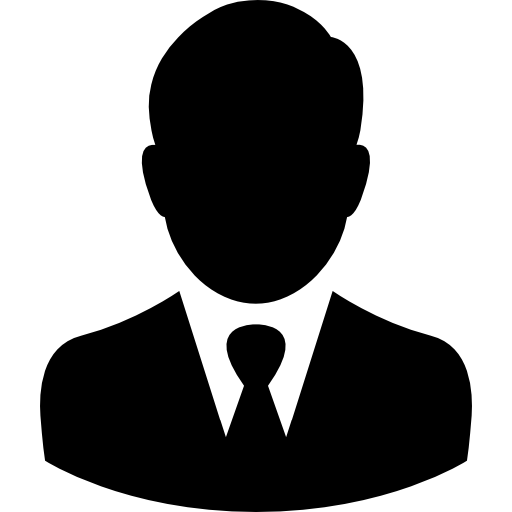
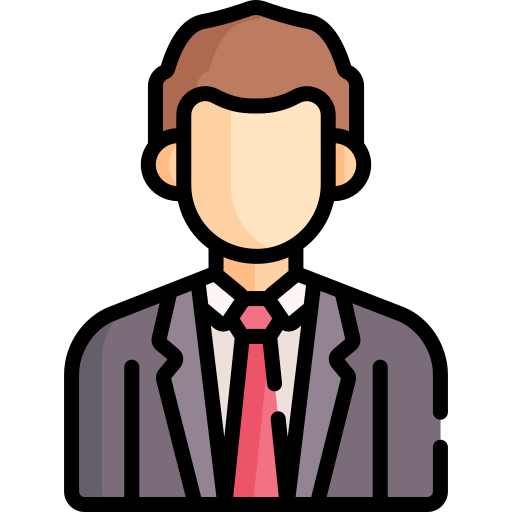
Update character images

diff --git a/components/first-level/training/FirstLevelTraining1.tsx b/components/first-level/training/FirstLevelTraining1.tsx
@@ -43,8 +43,8 @@ const FirstLevelTraining1 = ({
     <View style={styles.container}>
       <View style={styles.characterWrapper}>
         <Character
-          image={require("../../../assets/sergeant.png")}
-          name="Sergeant Mehmet"
+          image={require("../../../assets/trainer.png")}
+          name="Trainer"
           onPress={handleCharacterClick}
         />
         {showExclamation && (

diff --git a/components/first-level/training/FirstLevelTraining3.tsx b/components/first-level/training/FirstLevelTraining3.tsx
@@ -53,8 +53,8 @@ const FirstLevelTraining3 = ({
     <View style={styles.container}>
       <View style={styles.characterWrapper}>
         <Character
-          image={require("../../../assets/sergeant.png")}
-          name="Sergeant Mehmet"
+          image={require("../../../assets/trainer.png")}
+          name="Trainer"
           onPress={handleCharacterClick}
         />
         {showExclamation && (

diff --git a/components/Conversation.tsx b/components/Conversation.tsx
@@ -55,7 +55,7 @@ const Conversation = ({
   const characterImages: { [key: string]: any } = {
     agent: require("../assets/agent.png"),
     instructor: require("../assets/instructor.png"),
-    sergeant: require("../assets/sergeant.png"),
+    trainer: require("../assets/trainer.png"),
   };
 
   const character = characters[currentSpeaker] || {};
